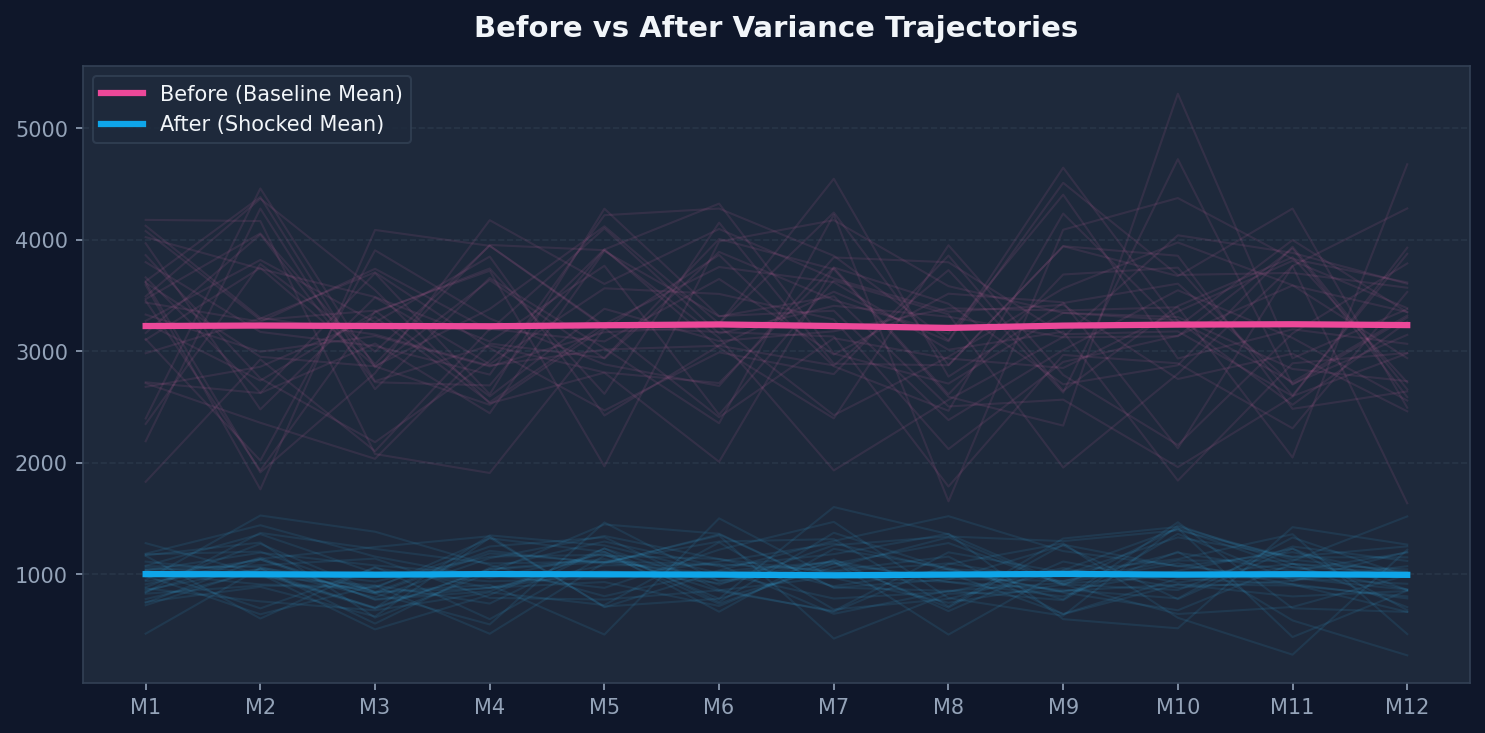
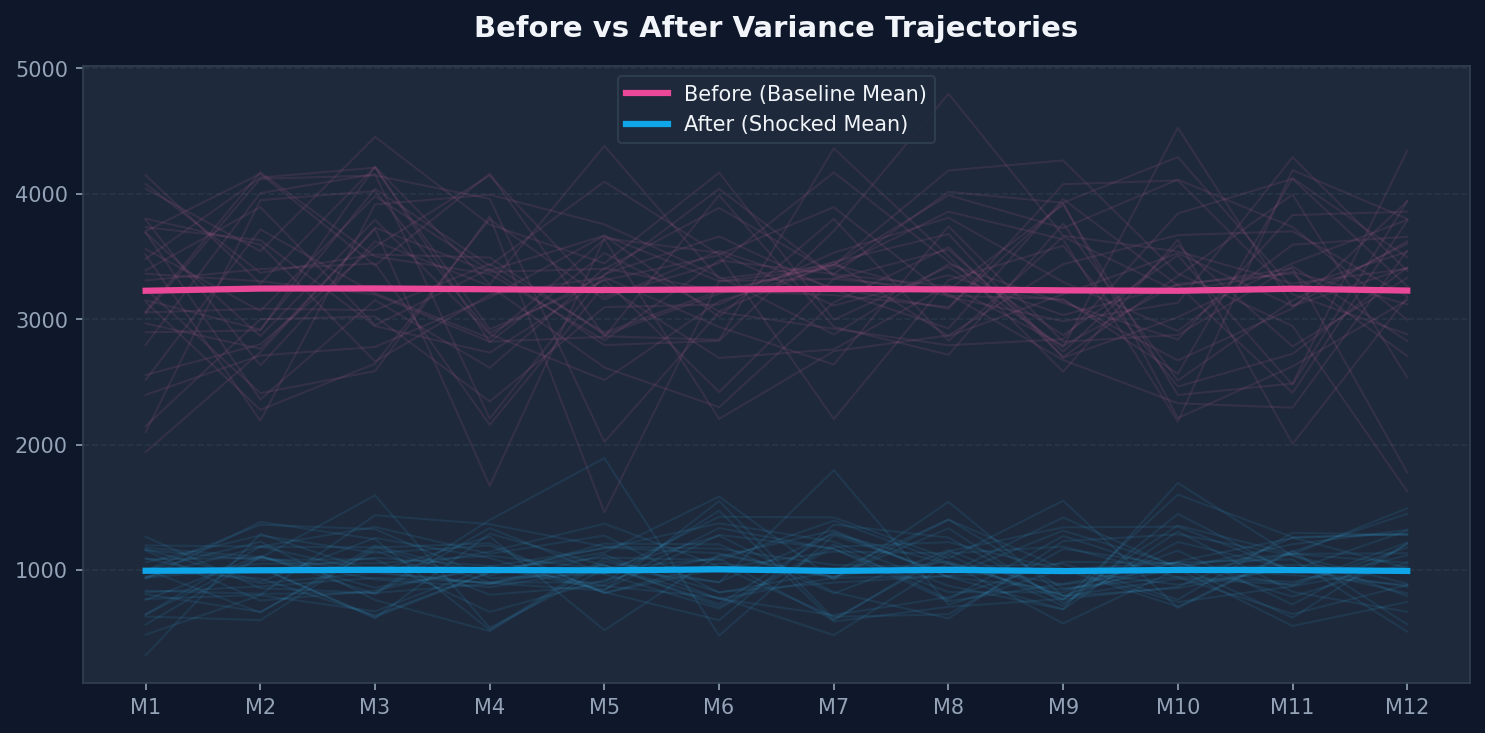
f07  done

diff --git a/backend/features/f07.py b/backend/features/f07.py
@@ -1,0 +1,135 @@
+import json
+import os
+import sys
+import pandas as pd
+import numpy as np
+import matplotlib.pyplot as plt
+
+def analyze_time_series():
+    # Resolve path to the cleaned dataset dynamically
+    data_path = os.path.abspath(os.path.join(os.path.dirname(__file__), '../../data/gig_cleaned_data.csv'))
+    
+    if not os.path.exists(data_path):
+        return {
+            "status": "error",
+            "message": f"Data file not found at {data_path}"
+        }
+
+    try:
+        df = pd.read_csv(data_path)
+        
+        # Ensure 'date' column is datetime
+        if 'date' not in df.columns:
+            return {"status": "error", "message": "'date' column is missing in dataset."}
+            
+        df['date'] = pd.to_datetime(df['date'])
+        
+        # Sort by date
+        df = df.sort_values('date')
+        
+        # Group by date to get daily averages
+        daily_data = df.groupby('date').agg({
+            'earnings_per_day': 'mean',
+            'hours_worked': 'mean'
+        }).reset_index()
+        
+        # Calculate 7-day rolling averages
+        daily_data['income_rolling_7'] = daily_data['earnings_per_day'].rolling(window=7, min_periods=1).mean()
+        daily_data['workload_rolling_7'] = daily_data['hours_worked'].rolling(window=7, min_periods=1).mean()
+        
+        # Classify trends
+        # We will compare the average of the first third of the period vs the last third
+        n_days = len(daily_data)
+        if n_days > 3:
+            first_third_income = daily_data['earnings_per_day'].head(n_days // 3).mean()
+            last_third_income = daily_data['earnings_per_day'].tail(n_days // 3).mean()
+            
+            first_third_workload = daily_data['hours_worked'].head(n_days // 3).mean()
+            last_third_workload = daily_data['hours_worked'].tail(n_days // 3).mean()
+            
+            income_pct_change = (last_third_income - first_third_income) / first_third_income
+            workload_pct_change = (last_third_workload - first_third_workload) / first_third_workload
+            
+            def classify(pct):
+                if pct > 0.05: return "Growth"
+                elif pct < -0.05: return "Decline"
+                else: return "Stable"
+                
+            income_trend = classify(income_pct_change)
+            workload_trend = classify(workload_pct_change)
+        else:
+            income_trend = "Stable"
+            workload_trend = "Stable"
+            
+        # Plotting (Dark theme as in other features)
+        os.makedirs("outputs", exist_ok=True)
+        income_chart_path = "outputs/f07_income_trend.png"
+        workload_chart_path = "outputs/f07_workload_trend.png"
+        
+        DARK = {"bg": "#0f172a", "card": "#1e293b", "border": "#334155", "text": "#f1f5f9", "muted": "#94a3b8"}
+        
+        def setup_plot(ax, title, ylabel):
+            ax.set_title(title, fontsize=14, pad=14, color=DARK["text"], fontweight="bold")
+            ax.set_facecolor(DARK["card"])
+            ax.tick_params(colors=DARK["muted"])
+            for spine in ax.spines.values():
+                spine.set_color(DARK["border"])
+            ax.grid(axis="y", linestyle="--", alpha=0.5, color="#334155")
+            ax.set_ylabel(ylabel, color=DARK["muted"])
+            ax.set_xlabel("Date", color=DARK["muted"])
+            
+        fig_facecolor = DARK["bg"]
+        
+        # 1. Income Trend Chart
+        fig1, ax1 = plt.subplots(figsize=(10, 5))
+        fig1.patch.set_facecolor(fig_facecolor)
+        setup_plot(ax1, "Average Daily Income Trend", "Income ($)")
+        ax1.plot(daily_data['date'], daily_data['earnings_per_day'], color="#f472b6", alpha=0.3, label="Daily Avg")
+        ax1.plot(daily_data['date'], daily_data['income_rolling_7'], color="#ec4899", linewidth=2.5, label="7-Day Rolling")
+        ax1.legend(facecolor=DARK["card"], edgecolor=DARK["border"], labelcolor=DARK["text"])
+        plt.tight_layout()
+        plt.savefig(income_chart_path, dpi=150, facecolor=fig_facecolor)
+        plt.close(fig1)
+        
+        # 2. Workload Trend Chart
+        fig2, ax2 = plt.subplots(figsize=(10, 5))
+        fig2.patch.set_facecolor(fig_facecolor)
+        setup_plot(ax2, "Average Daily Workload Trend", "Hours Worked")
+        ax2.plot(daily_data['date'], daily_data['hours_worked'], color="#38bdf8", alpha=0.3, label="Daily Avg")
+        ax2.plot(daily_data['date'], daily_data['workload_rolling_7'], color="#0ea5e9", linewidth=2.5, label="7-Day Rolling")
+        ax2.legend(facecolor=DARK["card"], edgecolor=DARK["border"], labelcolor=DARK["text"])
+        plt.tight_layout()
+        plt.savefig(workload_chart_path, dpi=150, facecolor=fig_facecolor)
+        plt.close(fig2)
+        
+        return {
+            "status": "success",
+            "message": "Time series intelligence completed.",
+            "data": {
+                "income_trend": income_trend,
+                "workload_trend": workload_trend,
+                "total_days_analyzed": n_days
+            },
+            "charts": [
+                {
+                    "title": "Income Trend Line Chart",
+                    "path": income_chart_path,
+                    "insight": f"Income is showing a {income_trend} trend."
+                },
+                {
+                    "title": "Workload Trend Chart",
+                    "path": workload_chart_path,
+                    "insight": f"Workload is showing a {workload_trend} trend."
+                }
+            ]
+        }
+        
+    except Exception as e:
+        return {
+            "status": "error",
+            "message": str(e)
+        }
+
+if __name__ == "__main__":
+    result = analyze_time_series()
+    print(json.dumps(result))

diff --git a/backend/features/f11.py b/backend/features/f11.py
@@ -1,0 +1,112 @@
+import json
+import pandas as pd
+import numpy as np
+import matplotlib.pyplot as plt
+import seaborn as sns
+import os
+from sklearn.model_selection import train_test_split
+from sklearn.linear_model import LinearRegression
+from sklearn.ensemble import RandomForestRegressor, GradientBoostingRegressor
+from sklearn.metrics import mean_absolute_error, mean_squared_error, r2_score
+
+def optimize_models():
+    data_path = os.path.abspath(os.path.join(os.path.dirname(__file__), '../../data/gig_cleaned_data.csv'))
+    if not os.path.exists(data_path):
+        return {
+            "status": "error",
+            "message": f"Data file not found at {data_path}"
+        }
+
+    try:
+        df = pd.read_csv(data_path)
+        
+        # Select features and target for Earnings Prediction
+        features = ['hours_worked', 'jobs_completed', 'rating']
+        categorical_features = ['platform', 'location']
+        target = 'earnings_per_day'
+        
+        # Drop missing values in the relevant columns to be safe
+        df = df.dropna(subset=features + categorical_features + [target])
+        
+        # One-hot encode categorical features
+        X = df[features + categorical_features]
+        X = pd.get_dummies(X, columns=categorical_features, drop_first=True)
+        y = df[target]
+        
+        X_train, X_test, y_train, y_test = train_test_split(X, y, test_size=0.2, random_state=42)
+        
+        models = {
+            "Linear Regression": LinearRegression(),
+            "Random Forest": RandomForestRegressor(n_estimators=100, random_state=42),
+            "Gradient Boosting": GradientBoostingRegressor(n_estimators=100, random_state=42)
+        }
+        
+        results = []
+        best_model_name = ""
+        best_r2 = -float("inf")
+        best_model_reasoning = ""
+        
+        for name, model in models.items():
+            model.fit(X_train, y_train)
+            preds = model.predict(X_test)
+            
+            mae = mean_absolute_error(y_test, preds)
+            rmse = np.sqrt(mean_squared_error(y_test, preds))
+            r2 = r2_score(y_test, preds)
+            
+            results.append({
+                "modelName": name,
+                "mae": round(mae, 2),
+                "rmse": round(rmse, 2),
+                "r2": round(r2, 4)
+            })
+            
+            if r2 > best_r2:
+                best_r2 = r2
+                best_model_name = name
+                best_model_reasoning = f"{name} achieved the highest R² score ({round(r2, 4)}) and lowest error metrics, demonstrating superior capability in mapping non-linear correlations within the gig ecosystem."
+        
+        # Generate comparison graph
+        os.makedirs("outputs", exist_ok=True)
+        graph_path = "outputs/f11_model_comparison.png"
+        
+        plt.figure(figsize=(9, 5))
+        sns.set_theme(style="darkgrid")
+        
+        model_names = [res["modelName"] for res in results]
+        r2_scores = [res["r2"] for res in results]
+        
+        ax = sns.barplot(x=model_names, y=r2_scores, palette="mako")
+        plt.title('Model Optimization: R² Score Comparison', fontsize=16)
+        plt.ylabel('R² Score (Higher is Better)', fontsize=12)
+        plt.xlabel('Algorithm', fontsize=12)
+        plt.ylim(0, max(max(r2_scores) + 0.1, 1.0))
+        
+        for p in ax.patches:
+            val = p.get_height()
+            ax.annotate(f"{val:.2f}", (p.get_x() + p.get_width() / 2., p.get_height()),
+                        ha='center', va='baseline', fontsize=11, color='black', xytext=(0, 5), textcoords='offset points')
+        
+        plt.savefig(graph_path, bbox_inches='tight', dpi=150)
+        plt.close()
+        
+        return {
+            "status": "success",
+            "message": "Model optimization pipeline completed.",
+            "comparison": results,
+            "best_model": {
+                "name": best_model_name,
+                "reasoning": best_model_reasoning
+            },
+            "graph_path": graph_path
+        }
+        
+    except Exception as e:
+        return {
+            "status": "error",
+            "message": str(e)
+        }
+
+if __name__ == "__main__":
+    result = optimize_models()
+    print(json.dumps(result))
